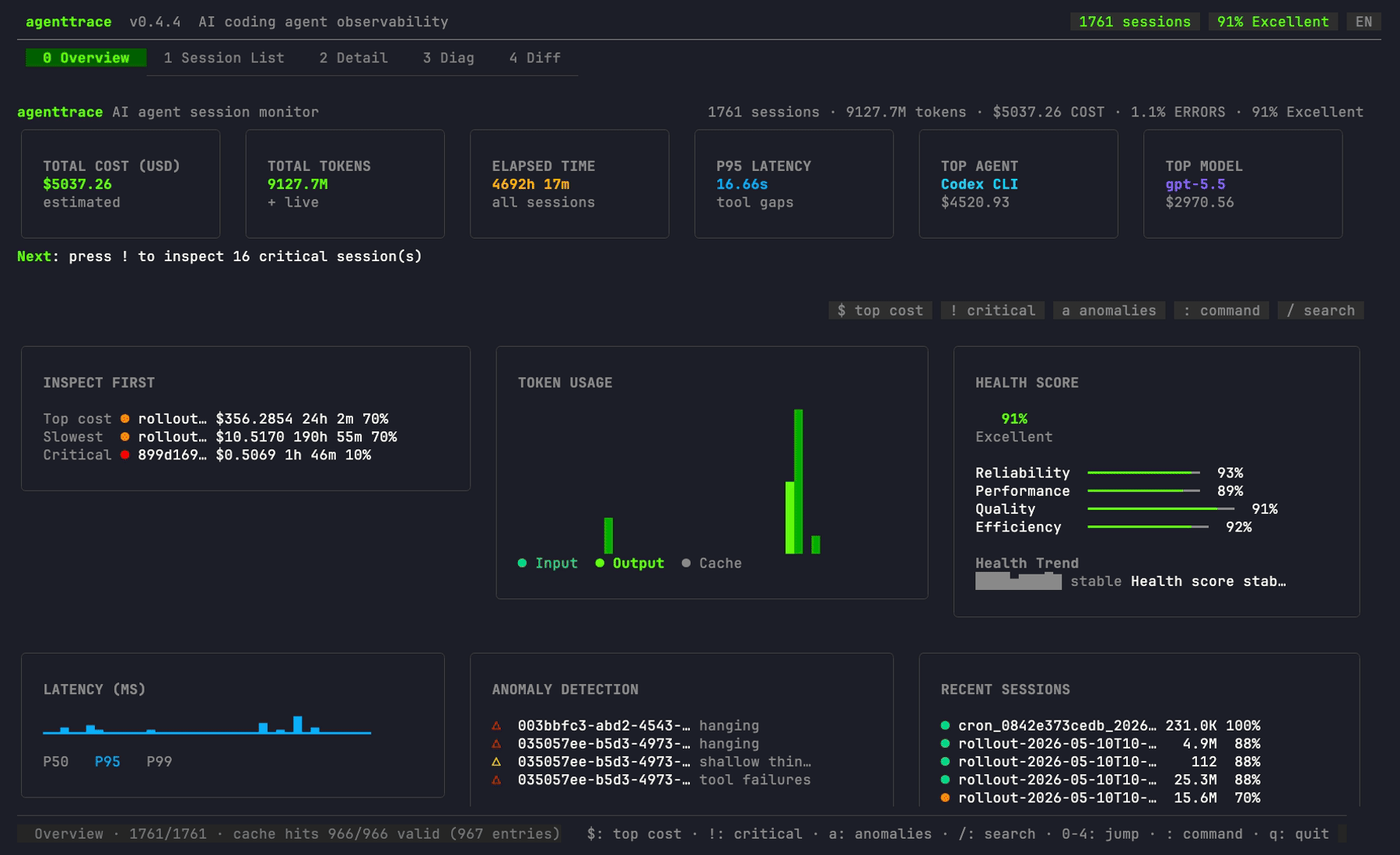
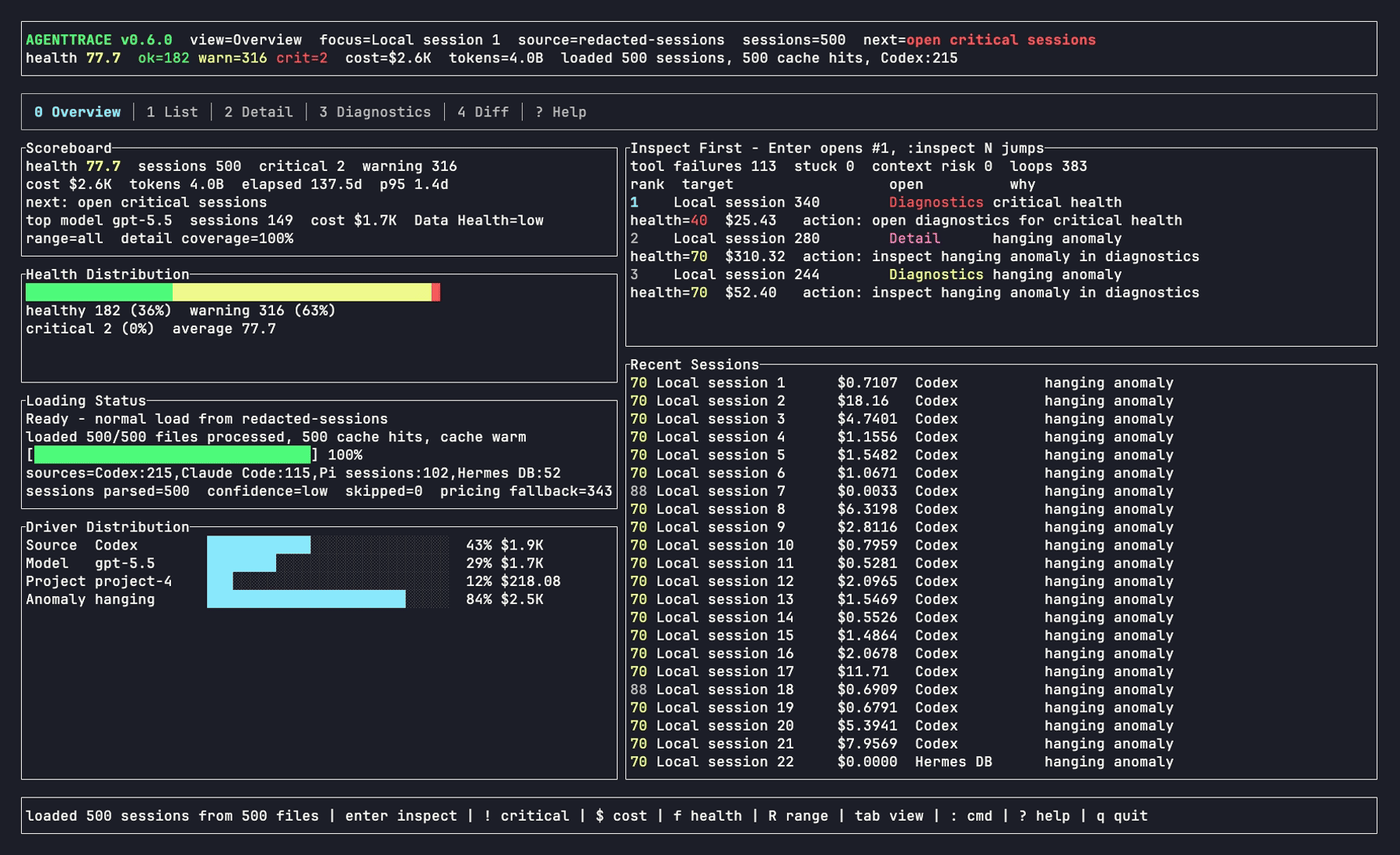
docs: refresh redacted real-session showcase

diff --git a/site/demo-report.html b/site/demo-report.html
@@ -17,137 +17,135 @@ section{border:1px solid var(--line);background:rgba(16,20,25,.78);padding:20px;
 <body>
 <main>
 <header>
-<div><div class="brand">agenttrace</div><h1>AI agent session overview</h1><p>Static sample data captured from local coding-agent traces on 2026-07-18; not current telemetry.</p></div>
-<div class="meta">v0.6.0<br>2413 Sessions<br><code>agenttrace --overview -f html</code></div>
+<div><div class="brand">agenttrace</div><h1>AI agent session overview</h1><p>Static report generated from local coding-agent traces.</p></div>
+<div class="meta">v0.6.0<br>500 Sessions<br><code>agenttrace --overview -f html</code></div>
 </header>
 <div class="grid" aria-label="summary metrics">
-<div class="metric"><span>Sessions</span><strong>2413</strong><p>1904 Healthy / 478 Warning / 31 Critical</p></div>
-<div class="metric"><span>Total tokens</span><strong>41503324713</strong><p>+ live</p></div>
-<div class="metric"><span>Average health</span><strong>91.7</strong><p>Fleet quality score</p></div>
-<div class="metric"><span>Total estimated cost</span><strong>$34091.97</strong><p>Estimated session cost</p></div>
-<div class="metric "><span>Tool failures</span><strong>656/262226</strong><p>0.3% failure rate</p></div>
+<div class="metric"><span>Sessions</span><strong>500</strong><p>182 Healthy / 316 Warning / 2 Critical</p></div>
+<div class="metric"><span>Total tokens</span><strong>4.0B</strong><p>+ live</p></div>
+<div class="metric"><span>Average health</span><strong>77.7</strong><p>Fleet quality score</p></div>
+<div class="metric"><span>Total estimated cost</span><strong>$2.6K</strong><p>Estimated session cost</p></div>
+<div class="metric "><span>Tool failures</span><strong>469/16066</strong><p>2.9% failure rate</p></div>
 </div>
 <section><h2>Tool authority</h2>
-<p><strong>Highest category</strong>: <code>unknown_authority</code></p>
+<p><strong>Highest category</strong>: <code>shell_exec</code></p>
 <table><caption>Authority category counts</caption><thead><tr><th>Authority category</th><th class="num">Count</th></tr></thead><tbody>
-<tr><td><code>external_publish</code></td><td class="num">195</td></tr>
-<tr><td><code>git_write</code></td><td class="num">3895</td></tr>
-<tr><td><code>network_access</code></td><td class="num">7039</td></tr>
-<tr><td><code>package_install</code></td><td class="num">364</td></tr>
-<tr><td><code>read_only_files</code></td><td class="num">2669</td></tr>
-<tr><td><code>shell_exec</code></td><td class="num">171772</td></tr>
-<tr><td><code>test_or_build</code></td><td class="num">7827</td></tr>
-<tr><td><code>unknown_authority</code></td><td class="num">10628</td></tr>
-<tr><td><code>write_files</code></td><td class="num">31164</td></tr>
+<tr><td><code>read_only_files</code></td><td class="num">15597</td></tr>
+<tr><td><code>shell_exec</code></td><td class="num">469</td></tr>
 </tbody></table>
-<p><strong>High-authority tools</strong>: <code>Agent</code>, <code>AskUserQuestion</code>, <code>Bash</code>, <code>Edit</code>, <code>Glob</code>, <code>SendMessage</code>, <code>Skill</code>, <code>Task</code>, <code>TaskCreate</code>, <code>TaskGet</code>, <code>TaskOutput</code>, <code>TaskUpdate</code>, <code>WebFetch</code>, <code>WebSearch</code>, <code>Workflow</code>, <code>Write</code>, <code>_add_comment_to_issue</code>, <code>_create_pull_request</code>, <code>_fetch_pr_comments</code>, <code>_get_pr_info</code>, <code>_search_repositories</code>, <code>_update_pull_request</code>, <code>apply_patch</code>, <code>automation_update</code>, <code>bash</code>, <code>batch_design</code>, <code>batch_get</code>, <code>browser_click</code>, <code>browser_close</code>, <code>browser_console_messages</code>, <code>browser_evaluate</code>, <code>browser_fill_form</code>, <code>browser_navigate</code>, <code>browser_network_requests</code>, <code>browser_press_key</code>, <code>browser_resize</code>, <code>browser_run_code_unsafe</code>, <code>browser_select_option</code>, <code>browser_snapshot</code>, <code>browser_tabs</code>, <code>browser_take_screenshot</code>, <code>chrome_click</code>, <code>chrome_execute_js</code>, <code>chrome_navigate</code>, <code>chrome_page_info</code>, <code>chrome_press_key</code>, <code>chrome_screenshot</code>, <code>chrome_scroll</code>, <code>chrome_snapshot</code>, <code>chrome_type</code>, <code>chrome_wait_for_load</code>, <code>click</code>, <code>close_agent</code>, <code>codegraph_callers</code>, <code>codegraph_explore</code>, <code>codegraph_node</code>, <code>codegraph_search</code>, <code>create_goal</code>, <code>ctx_index</code>, <code>ctx_search</code>, <code>describe_image</code>, <code>detect_service_anomalies</code>, <code>drag</code>, <code>edit</code>, <code>exec_command</code>, <code>execute_shell_command</code>, <code>export_nodes</code>, <code>fetch_content</code>, <code>firecrawl_browser_create</code>, <code>firecrawl_browser_execute</code>, <code>firecrawl_extract</code>, <code>firecrawl_scrape</code>, <code>firecrawl_search</code>, <code>get_app_state</code>, <code>get_editor_state</code>, <code>get_goal</code>, <code>get_mcp_runtime_status</code>, <code>get_mcp_tool_metadata</code>, <code>get_screenshot</code>, <code>get_search_content</code>, <code>get_variables</code>, <code>js</code>, <code>js_add_node_module_dir</code>, <code>js_repl_reset</code>, <code>lens_diagnostics</code>, <code>mcp__codex_apps__github_search_repositories</code>, <code>mcp__context7__query-docs</code>, <code>mcp__context7__query_docs</code>, <code>mcp__context7__resolve-library-id</code>, <code>mcp__context7__resolve_library_id</code>, <code>mcp__firecrawl__firecrawl_map</code>, <code>mcp__firecrawl__firecrawl_scrape</code>, <code>mcp__firecrawl__firecrawl_search</code>, <code>mcp__markitdown__convert_to_markdown</code>, <code>mcp__mcp_server__cmdb_get_service_info</code>, <code>mcp__mcp_server__detect_service_anomalies</code>, <code>mcp__mcp_server__execute_shell_command</code>, <code>mcp__mcp_server__get_mcp_tool_metadata</code>, <code>mcp__mcp_server__search_service_traces</code>, <code>mcp__my-server__detect_service_anomalies</code>, <code>mcp__my-server__execute_shell_command</code>, <code>mcp__my-server__get_mcp_tool_metadata</code>, <code>mcp__my-server__get_prometheus_metric_metadata</code>, <code>mcp__my-server__query_prometheus</code>, <code>mcp__my-server__search_service_traces</code>, <code>mcp__my_server__cmdb_get_service_info</code>, <code>mcp__my_server__execute_shell_command</code>, <code>mcp__my_server__get_mcp_tool_metadata</code>, <code>mcp__my_server__query_audit_logs</code>, <code>mcp__my_server__search_service_traces</code>, <code>mcp__my_server__tencentcloud_apm_search_spans</code>, <code>mcp__my_server__tencentcloud_edgeone_get_zone</code>, <code>mcp__orchestration__Agent</code>, <code>mcp__orchestration__TaskCreate</code>, <code>mcp__orchestration__TaskGet</code>, <code>mcp__orchestration__TaskUpdate</code>, <code>mcp__orchestration__WriteDesign</code>, <code>mcp__pencil__batch_design</code>, <code>mcp__pencil__batch_get</code>, <code>mcp__pencil__get_editor_state</code>, <code>mcp__pencil__get_guidelines</code>, <code>mcp__pencil__get_screenshot</code>, <code>mcp__pencil__get_style_guide</code>, <code>mcp__pencil__get_style_guide_tags</code>, <code>mcp__pencil__get_variables</code>, <code>mcp__pencil__open_document</code>, <code>mcp__pencil__replace_all_matching_properties</code>, <code>mcp__pencil__search_all_unique_properties</code>, <code>mcp__pencil__set_variables</code>, <code>mcp__pencil__snapshot_layout</code>, <code>mcp__pencil__spawn_agents</code>, <code>mcp__playwright__browser_console_messages</code>, <code>mcp__playwright__browser_evaluate</code>, <code>mcp__playwright__browser_install</code>, <code>mcp__playwright__browser_navigate</code>, <code>mcp__playwright__browser_network_requests</code>, <code>mcp__playwright__browser_resize</code>, <code>mcp__playwright__browser_run_code</code>, <code>mcp__playwright__browser_snapshot</code>, <code>mcp__playwright__browser_tabs</code>, <code>mcp__playwright__browser_take_screenshot</code>, <code>mcp__playwright__browser_wait_for</code>, <code>mcp__qmd__query</code>, <code>mcp__qmd__status</code>, <code>mcp__tavily-remote-mcp__tavily_search</code>, <code>mcp__tavily__tavily_extract</code>, <code>mcp__tavily__tavily_search</code>, <code>mcp__tavily__tavily_skill</code>, <code>mcp_rca_mcp_cmdb_get_service_info</code>, <code>mcp_rca_mcp_detect_service_anomalies</code>, <code>mcp_rca_mcp_execute_first_successful_shell_command</code>, <code>mcp_rca_mcp_execute_shell_command</code>, <code>mcp_rca_mcp_get_gitlab_code_by_tag</code>, <code>mcp_rca_mcp_get_gitlab_code_range</code>, <code>mcp_rca_mcp_get_gitlab_code_structure</code>, <code>mcp_rca_mcp_get_gitlab_diff</code>, <code>mcp_rca_mcp_get_mcp_runtime_status</code>, <code>mcp_rca_mcp_get_mcp_tool_metadata</code>, <code>mcp_rca_mcp_get_trace_span</code>, <code>mcp_rca_mcp_inspect_ip</code>, <code>mcp_rca_mcp_query_prometheus</code>, <code>mcp_rca_mcp_search_gitlab_code_in_project</code>, <code>mcp_rca_mcp_search_gitlab_projects</code>, <code>mcp_rca_mcp_search_service_traces</code>, <code>mcp_rca_mcp_tencentcloud_apm_search_spans</code>, <code>mcp_rca_mcp_tencentcloud_cloudaudit_diagnose_resource_changes</code>, <code>mcp_rca_mcp_tencentcloud_cvm_get_instance_detail</code>, <code>mcp_rca_mcp_tencentcloud_dnspod_resolve_record</code>, <code>mcp_rca_mcp_tencentcloud_edgeone_describe_origin_groups</code>, <code>mcp_rca_mcp_tencentcloud_edgeone_get_l7_analysis</code>, <code>mcp_rca_mcp_tencentcloud_edgeone_get_top_l7_analysis</code>, <code>mcp_rca_mcp_tencentcloud_edgeone_get_zone</code>, <code>mcp_rca_mcp_tencentcloud_edgeone_get_zone_setting</code>, <code>mcp_rca_mcp_tencentcloud_l7_diagnose_ingress</code>, <code>mcp_rca_mcp_tencentcloud_monitor_get_alarm_events</code>, <code>mcp_rca_mcp_tencentcloud_monitor_get_alarm_histories</code>, <code>mcp_rca_mcp_tencentcloud_waf_get_domain_rules</code>, <code>mcp_rca_mcp_validate_shell_command</code>, <code>memory</code>, <code>memory_search</code>, <code>open_document</code>, <code>press_key</code>, <code>query_docs</code>, <code>read_thread_terminal</code>, <code>replace_all_matching_properties</code>, <code>request_user_input</code>, <code>resolve_library_id</code>, <code>scroll</code>, <code>search_all_unique_properties</code>, <code>session_search</code>, <code>set_value</code>, <code>set_variables</code>, <code>snapshot_layout</code>, <code>spawn_agent</code>, <code>subagent</code>, <code>tavily_extract</code>, <code>tavily_research</code>, <code>tavily_search</code>, <code>team</code>, <code>tencentcloud_edgeone_describe_origin_groups</code>, <code>tencentcloud_edgeone_get_origin_protection</code>, <code>tencentcloud_edgeone_get_zone</code>, <code>tencentcloud_edgeone_get_zone_setting</code>, <code>tencentcloud_l7_diagnose_domain_path</code>, <code>tencentcloud_l7_diagnose_ingress</code>, <code>todo</code>, <code>type_text</code>, <code>unknown</code>, <code>update_goal</code>, <code>update_plan</code>, <code>wait</code>, <code>wait_agent</code>, <code>web_search</code>, <code>write</code>, <code>write_stdin</code></p>
+<p><strong>High-authority tools</strong>: <code>Shell</code></p>
 </section>
 <section><h2>Possible cost drivers</h2><table><thead><tr><th>Session</th><th>Evidence</th></tr></thead><tbody>
-<tr><td>rollout-2026-06-21T16-38-51-019ee955-253a-7ab3-b489-2eb287fc9389</td><td>possible driver: 53450 tokens per assistant turn across 483 turn(s)</td></tr>
-<tr><td>2026-06-21T08-13-01-937Z_019ee93d-7e70-7149-a586-ef67d9b40181</td><td>possible driver: 86525 tokens per assistant turn across 35 turn(s)</td></tr>
-<tr><td>2026-06-21T06-57-34-139Z_019ee8f8-67bb-7b54-bce5-0c0bb17d4f8a</td><td>possible driver: 184324 tokens per assistant turn across 120 turn(s)</td></tr>
-<tr><td>2026-06-21T06-28-39-840Z_019ee8dd-f120-7d2e-a71c-a5a6660b8d92</td><td>possible driver: 94135 tokens per assistant turn across 77 turn(s)</td></tr>
-<tr><td>20260621_142410_582e5f</td><td>possible driver: 72255 tokens per assistant turn across 11 turn(s)</td></tr>
-<tr><td>2026-06-20T20-37-35-778Z_019ee6c0-cda2-7d4b-8bca-305ef8e7eda1</td><td>possible driver: 70845 tokens per assistant turn across 12 turn(s)</td></tr>
-<tr><td>Empty conversation start</td><td>possible driver: 132036 tokens per assistant turn across 142 turn(s)</td></tr>
-<tr><td>2026-06-20T19-43-12-064Z_019ee68f-00c0-7621-812c-8c043f8cd36d</td><td>possible driver: 63785 tokens per assistant turn across 17 turn(s)</td></tr>
+<tr><td>Local session 1</td><td>possible driver: 801.4K tokens per assistant turn across 1 turn(s)</td></tr>
+<tr><td>Local session 2</td><td>possible driver: 11.1M tokens per assistant turn across 11 turn(s)</td></tr>
+<tr><td>Local session 3</td><td>possible driver: 2.5M tokens per assistant turn across 5 turn(s)</td></tr>
+<tr><td>Local session 4</td><td>possible driver: 1.5M tokens per assistant turn across 4 turn(s)</td></tr>
+<tr><td>Local session 5</td><td>possible driver: 4.7M tokens per assistant turn across 1 turn(s)</td></tr>
+<tr><td>Local session 6</td><td>possible driver: 1.2M tokens per assistant turn across 6 turn(s)</td></tr>
+<tr><td>Local session 8</td><td>possible driver: 3.0M tokens per assistant turn across 10 turn(s)</td></tr>
+<tr><td>Local session 9</td><td>possible driver: 32.1M tokens per assistant turn across 1 turn(s)</td></tr>
 </tbody></table></section>
-<section><h2>Health Trend</h2><p>Improving: 70→100</p></section>
+<section><h2>Health Trend</h2><p>Health score stable at 72</p></section>
 <section><h2>Incident timeline</h2>
 <table><thead><tr><th>Session</th><th>Signal</th><th>Evidence</th><th>Severity</th></tr></thead><tbody>
-<tr><td>rollout-2026-06-21T16-38-51-019ee955-253a-7ab3-b489-2eb287fc9389</td><td>Last milestone</td><td>483 assistant turn(s) completed over 2h 36m</td><td>LOW</td></tr>
-<tr><td>rollout-2026-06-21T16-38-51-019ee955-253a-7ab3-b489-2eb287fc9389</td><td>Longest idle gap</td><td>3083.3s gap between recorded events</td><td>HIGH</td></tr>
-<tr><td>rollout-2026-06-21T16-38-51-019ee955-253a-7ab3-b489-2eb287fc9389</td><td>Touched surface</td><td>7 unique tool(s), 299 total calls; top tool exec_command x259</td><td>LOW</td></tr>
-<tr><td>rollout-2026-06-21T16-38-51-019ee955-253a-7ab3-b489-2eb287fc9389</td><td>Burn divergence</td><td>53450 tokens per assistant turn across 483 turn(s)</td><td>MEDIUM</td></tr>
-<tr><td>2026-06-21T08-13-01-937Z_019ee93d-7e70-7149-a586-ef67d9b40181</td><td>Last milestone</td><td>35 assistant turn(s) completed over 11.5m</td><td>LOW</td></tr>
-<tr><td>2026-06-21T08-13-01-937Z_019ee93d-7e70-7149-a586-ef67d9b40181</td><td>Longest idle gap</td><td>79.7s gap between recorded events</td><td>MEDIUM</td></tr>
-<tr><td>2026-06-21T08-13-01-937Z_019ee93d-7e70-7149-a586-ef67d9b40181</td><td>Failure loop</td><td>3 failed tool result(s) out of 33 (9.1%)</td><td>MEDIUM</td></tr>
-<tr><td>2026-06-21T08-13-01-937Z_019ee93d-7e70-7149-a586-ef67d9b40181</td><td>Touched surface</td><td>8 unique tool(s), 33 total calls; top tool bash x13</td><td>LOW</td></tr>
-<tr><td>2026-06-21T08-13-01-937Z_019ee93d-7e70-7149-a586-ef67d9b40181</td><td>Burn divergence</td><td>86525 tokens per assistant turn across 35 turn(s)</td><td>MEDIUM</td></tr>
-<tr><td>2026-06-21T06-57-34-139Z_019ee8f8-67bb-7b54-bce5-0c0bb17d4f8a</td><td>Last milestone</td><td>120 assistant turn(s) completed over 1h 13m</td><td>LOW</td></tr>
-<tr><td>2026-06-21T06-57-34-139Z_019ee8f8-67bb-7b54-bce5-0c0bb17d4f8a</td><td>Longest idle gap</td><td>632.3s gap between recorded events</td><td>HIGH</td></tr>
-<tr><td>2026-06-21T06-57-34-139Z_019ee8f8-67bb-7b54-bce5-0c0bb17d4f8a</td><td>Failure loop</td><td>7 failed tool result(s) out of 140 (5.0%)</td><td>MEDIUM</td></tr>
-<tr><td>2026-06-21T06-57-34-139Z_019ee8f8-67bb-7b54-bce5-0c0bb17d4f8a</td><td>Touched surface</td><td>5 unique tool(s), 140 total calls; top tool bash x79</td><td>LOW</td></tr>
-<tr><td>2026-06-21T06-57-34-139Z_019ee8f8-67bb-7b54-bce5-0c0bb17d4f8a</td><td>Burn divergence</td><td>184324 tokens per assistant turn across 120 turn(s)</td><td>MEDIUM</td></tr>
-<tr><td>20260621_145528_cf085a</td><td>Last milestone</td><td>1 assistant turn(s) completed over 0s</td><td>LOW</td></tr>
-<tr><td>20260621_145528_cf085a</td><td>Burn divergence</td><td>45025 tokens per assistant turn across 1 turn(s)</td><td>MEDIUM</td></tr>
-<tr><td>rollout-2026-06-21T14-30-01-019ee8df-2e98-7390-a706-2e467cb412a5</td><td>Longest idle gap</td><td>494.5s gap between recorded events</td><td>HIGH</td></tr>
-<tr><td>2026-06-21T06-28-39-840Z_019ee8dd-f120-7d2e-a71c-a5a6660b8d92</td><td>Last milestone</td><td>77 assistant turn(s) completed over 26.7m</td><td>LOW</td></tr>
-<tr><td>2026-06-21T06-28-39-840Z_019ee8dd-f120-7d2e-a71c-a5a6660b8d92</td><td>Longest idle gap</td><td>899.2s gap between recorded events</td><td>HIGH</td></tr>
-<tr><td>2026-06-21T06-28-39-840Z_019ee8dd-f120-7d2e-a71c-a5a6660b8d92</td><td>Failure loop</td><td>4 failed tool result(s) out of 75 (5.3%)</td><td>MEDIUM</td></tr>
-<tr><td>2026-06-21T06-28-39-840Z_019ee8dd-f120-7d2e-a71c-a5a6660b8d92</td><td>Touched surface</td><td>3 unique tool(s), 75 total calls; top tool bash x52</td><td>LOW</td></tr>
-<tr><td>2026-06-21T06-28-39-840Z_019ee8dd-f120-7d2e-a71c-a5a6660b8d92</td><td>Burn divergence</td><td>94135 tokens per assistant turn across 77 turn(s)</td><td>MEDIUM</td></tr>
-<tr><td>20260621_142410_582e5f</td><td>Last milestone</td><td>11 assistant turn(s) completed over 2.1m</td><td>LOW</td></tr>
-<tr><td>20260621_142410_582e5f</td><td>Burn divergence</td><td>72255 tokens per assistant turn across 11 turn(s)</td><td>MEDIUM</td></tr>
-<tr><td>2026-06-21T06-20-13-025Z_019ee8d6-3561-7849-af3e-9cd9580bff5b</td><td>Longest idle gap</td><td>182.9s gap between recorded events</td><td>MEDIUM</td></tr>
+<tr><td>Local session 1</td><td>Last milestone</td><td>1 assistant turn(s) completed over 6.7m</td><td>LOW</td></tr>
+<tr><td>Local session 1</td><td>Longest idle gap</td><td>404.0s gap between recorded events</td><td>HIGH</td></tr>
+<tr><td>Local session 1</td><td>Touched surface</td><td>1 unique tool(s), 1 total calls; top tool Read x1</td><td>LOW</td></tr>
+<tr><td>Local session 1</td><td>Burn divergence</td><td>801.4K tokens per assistant turn across 1 turn(s)</td><td>MEDIUM</td></tr>
+<tr><td>Local session 2</td><td>Last milestone</td><td>11 assistant turn(s) completed over 4h 41m</td><td>LOW</td></tr>
+<tr><td>Local session 2</td><td>Longest idle gap</td><td>16916.0s gap between recorded events</td><td>HIGH</td></tr>
+<tr><td>Local session 2</td><td>Touched surface</td><td>1 unique tool(s), 11 total calls; top tool Read x11</td><td>LOW</td></tr>
+<tr><td>Local session 2</td><td>Burn divergence</td><td>11.1M tokens per assistant turn across 11 turn(s)</td><td>MEDIUM</td></tr>
+<tr><td>Local session 3</td><td>Last milestone</td><td>5 assistant turn(s) completed over 38.8m</td><td>LOW</td></tr>
+<tr><td>Local session 3</td><td>Longest idle gap</td><td>2327.0s gap between recorded events</td><td>HIGH</td></tr>
+<tr><td>Local session 3</td><td>Touched surface</td><td>1 unique tool(s), 5 total calls; top tool Read x5</td><td>LOW</td></tr>
+<tr><td>Local session 3</td><td>Burn divergence</td><td>2.5M tokens per assistant turn across 5 turn(s)</td><td>MEDIUM</td></tr>
+<tr><td>Local session 4</td><td>Last milestone</td><td>4 assistant turn(s) completed over 51.2m</td><td>LOW</td></tr>
+<tr><td>Local session 4</td><td>Longest idle gap</td><td>3073.0s gap between recorded events</td><td>HIGH</td></tr>
+<tr><td>Local session 4</td><td>Touched surface</td><td>1 unique tool(s), 4 total calls; top tool Read x4</td><td>LOW</td></tr>
+<tr><td>Local session 4</td><td>Burn divergence</td><td>1.5M tokens per assistant turn across 4 turn(s)</td><td>MEDIUM</td></tr>
+<tr><td>Local session 5</td><td>Last milestone</td><td>1 assistant turn(s) completed over 5h 15m</td><td>LOW</td></tr>
+<tr><td>Local session 5</td><td>Longest idle gap</td><td>18935.0s gap between recorded events</td><td>HIGH</td></tr>
+<tr><td>Local session 5</td><td>Burn divergence</td><td>4.7M tokens per assistant turn across 1 turn(s)</td><td>MEDIUM</td></tr>
+<tr><td>Local session 6</td><td>Last milestone</td><td>6 assistant turn(s) completed over 30.7m</td><td>LOW</td></tr>
+<tr><td>Local session 6</td><td>Longest idle gap</td><td>1840.0s gap between recorded events</td><td>HIGH</td></tr>
+<tr><td>Local session 6</td><td>Touched surface</td><td>1 unique tool(s), 6 total calls; top tool Read x6</td><td>LOW</td></tr>
+<tr><td>Local session 6</td><td>Burn divergence</td><td>1.2M tokens per assistant turn across 6 turn(s)</td><td>MEDIUM</td></tr>
+<tr><td>Local session 7</td><td>Last milestone</td><td>1 assistant turn(s) completed over 2.3m</td><td>LOW</td></tr>
+<tr><td>Local session 7</td><td>Longest idle gap</td><td>140.0s gap between recorded events</td><td>MEDIUM</td></tr>
+<tr><td>Local session 8</td><td>Last milestone</td><td>10 assistant turn(s) completed over 1h 49m</td><td>LOW</td></tr>
+<tr><td>Local session 8</td><td>Longest idle gap</td><td>6545.0s gap between recorded events</td><td>HIGH</td></tr>
+<tr><td>Local session 8</td><td>Touched surface</td><td>1 unique tool(s), 10 total calls; top tool Read x10</td><td>LOW</td></tr>
+<tr><td>Local session 8</td><td>Burn divergence</td><td>3.0M tokens per assistant turn across 10 turn(s)</td><td>MEDIUM</td></tr>
 </tbody></table>
 </section>
 <section><h2>Recent sessions</h2><table><thead><tr><th>Session</th><th>Source</th><th>Model</th><th class="num">Total tokens</th><th class="num">Cost</th><th class="num">Health</th><th class="num">Anomalies</th></tr></thead><tbody>
-<tr><td>rollout-2026-06-21T16-38-51-019ee955-253a-7ab3-b489-2eb287fc9389</td><td>Codex CLI</td><td>gpt-5.5</td><td class="num">25816725</td><td class="num">$23.1751</td><td class="num health-warn">70</td><td class="num">1</td></tr>
-<tr><td>2026-06-21T08-13-01-937Z_019ee93d-7e70-7149-a586-ef67d9b40181</td><td>Pi</td><td>gpt-5.5</td><td class="num">3028401</td><td class="num">$3.0447</td><td class="num health-good">88</td><td class="num">1</td></tr>
-<tr><td>2026-06-21T06-57-34-139Z_019ee8f8-67bb-7b54-bce5-0c0bb17d4f8a</td><td>Pi</td><td>mimo-v2.5-pro</td><td class="num">22118951</td><td class="num">$0.0000</td><td class="num health-warn">58</td><td class="num">2</td></tr>
-<tr><td>20260621_145609_80c260</td><td>Hermes Agent (DB)</td><td>gpt-5.5</td><td class="num">46794</td><td class="num">$0.0267</td><td class="num health-good">100</td><td class="num">0</td></tr>
-<tr><td>20260621_145528_cf085a</td><td>Hermes Agent (DB)</td><td>gpt-5.5</td><td class="num">45025</td><td class="num">$0.2256</td><td class="num health-good">100</td><td class="num">0</td></tr>
-<tr><td>20260621_145359_fb98fb</td><td>Hermes Agent (DB)</td><td>gpt-5.5</td><td class="num">0</td><td class="num">$0.0000</td><td class="num health-good">100</td><td class="num">0</td></tr>
-<tr><td>20260621_143458_a67a1e</td><td>Hermes Agent (DB)</td><td>gpt-5.5</td><td class="num">0</td><td class="num">$0.0000</td><td class="num health-good">100</td><td class="num">0</td></tr>
-<tr><td>rollout-2026-06-21T14-30-01-019ee8df-2e98-7390-a706-2e467cb412a5</td><td>Codex CLI</td><td>codex-auto-review</td><td class="num">209552</td><td class="num">$0.6287</td><td class="num health-warn">70</td><td class="num">1</td></tr>
-<tr><td>2026-06-21T06-28-39-840Z_019ee8dd-f120-7d2e-a71c-a5a6660b8d92</td><td>Pi</td><td>mimo-v2.5-pro</td><td class="num">7248398</td><td class="num">$0.0000</td><td class="num health-bad">40</td><td class="num">2</td></tr>
-<tr><td>2026-06-21T06-27-12-400Z_019ee8dc-9b90-76af-a903-1498771a0b3e</td><td>Pi</td><td>default</td><td class="num">19</td><td class="num">$0.0001</td><td class="num health-good">100</td><td class="num">0</td></tr>
-<tr><td>20260621_142410_582e5f</td><td>Hermes Agent (DB)</td><td>mimo-v2.5-pro-ultraspeed</td><td class="num">794807</td><td class="num">$0.9224</td><td class="num health-good">100</td><td class="num">0</td></tr>
-<tr><td>2026-06-21T06-20-13-025Z_019ee8d6-3561-7849-af3e-9cd9580bff5b</td><td>Pi</td><td>mimo-v2.5-pro</td><td class="num">170</td><td class="num">$0.0000</td><td class="num health-good">88</td><td class="num">1</td></tr>
-<tr><td>rollout-2026-06-21T14-16-13-019ee8d2-8cfd-7d81-bd89-42c2677eca6e</td><td>Codex CLI</td><td>gpt-5.5</td><td class="num">6835164</td><td class="num">$5.7680</td><td class="num health-warn">70</td><td class="num">1</td></tr>
-<tr><td>rollout-2026-06-21T14-12-57-019ee8cf-906b-7763-ab0d-3eb518427617</td><td>Codex CLI</td><td>gpt-5.5</td><td class="num">1068</td><td class="num">$0.0053</td><td class="num health-good">88</td><td class="num">1</td></tr>
-<tr><td>2026-06-20T20-37-35-778Z_019ee6c0-cda2-7d4b-8bca-305ef8e7eda1</td><td>Pi</td><td>mimo-v2.5-pro</td><td class="num">850146</td><td class="num">$0.0000</td><td class="num health-warn">58</td><td class="num">2</td></tr>
-<tr><td>rollout-2026-06-21T04-23-24-019ee6b3-d174-7190-9480-8826a250c86d</td><td>Codex CLI</td><td>gpt-5.5</td><td class="num">12148379</td><td class="num">$11.9185</td><td class="num health-good">88</td><td class="num">1</td></tr>
-<tr><td>look_at: 分析 TenRouter 开发者视图的 UI/UX 视觉质量: 布局节奏、卡片层级、色彩使用、留白、</td><td>OpenCode (DB)</td><td>gpt-5.4</td><td class="num">0</td><td class="num">$0.0000</td><td class="num health-good">100</td><td class="num">0</td></tr>
-<tr><td>look_at: 分析这个登录页面的UI/UX/视觉设计质量,包括布局、留白、对齐、色彩、字体层级、按钮样式、视觉重点</td><td>OpenCode (DB)</td><td>gpt-5.4</td><td class="num">0</td><td class="num">$0.0000</td><td class="num health-good">100</td><td class="num">0</td></tr>
-<tr><td>Empty conversation start</td><td>OpenCode (DB)</td><td>glm-5.2</td><td class="num">18749166</td><td class="num">$23.4525</td><td class="num health-good">100</td><td class="num">0</td></tr>
-<tr><td>New session - 2026-06-20T19:48:54.816Z</td><td>OpenCode (DB)</td><td>glm-5.2</td><td class="num">0</td><td class="num">$0.0000</td><td class="num health-good">100</td><td class="num">0</td></tr>
+<tr><td>Local session 1</td><td>Codex CLI</td><td>gpt-5.6-sol</td><td class="num">801.4K</td><td class="num">$0.7107</td><td class="num health-warn">70</td><td class="num">1</td></tr>
+<tr><td>Local session 2</td><td>Codex CLI</td><td>gpt-5.6-sol</td><td class="num">121.8M</td><td class="num">$18.16</td><td class="num health-warn">70</td><td class="num">1</td></tr>
+<tr><td>Local session 3</td><td>Codex CLI</td><td>gpt-5.6-luna</td><td class="num">12.3M</td><td class="num">$4.7401</td><td class="num health-warn">70</td><td class="num">1</td></tr>
+<tr><td>Local session 4</td><td>Codex CLI</td><td>gpt-5.6-luna</td><td class="num">6.1M</td><td class="num">$1.1556</td><td class="num health-warn">70</td><td class="num">1</td></tr>
+<tr><td>Local session 5</td><td>Codex CLI</td><td>gpt-5.6-luna</td><td class="num">4.7M</td><td class="num">$1.5482</td><td class="num health-warn">70</td><td class="num">1</td></tr>
+<tr><td>Local session 6</td><td>Codex CLI</td><td>gpt-5.6-luna</td><td class="num">7.5M</td><td class="num">$1.0671</td><td class="num health-warn">70</td><td class="num">1</td></tr>
+<tr><td>Local session 7</td><td>Codex CLI</td><td>gpt-5.6-luna</td><td class="num">1.1K</td><td class="num">$0.0033</td><td class="num health-good">88</td><td class="num">1</td></tr>
+<tr><td>Local session 8</td><td>Codex CLI</td><td>gpt-5.6-luna</td><td class="num">30.5M</td><td class="num">$6.3198</td><td class="num health-warn">70</td><td class="num">1</td></tr>
+<tr><td>Local session 9</td><td>Codex CLI</td><td>gpt-5.6-luna</td><td class="num">32.1M</td><td class="num">$2.8116</td><td class="num health-warn">70</td><td class="num">1</td></tr>
+<tr><td>Local session 10</td><td>Codex CLI</td><td>gpt-5.6-luna</td><td class="num">2.5M</td><td class="num">$0.7959</td><td class="num health-warn">70</td><td class="num">1</td></tr>
+<tr><td>Local session 11</td><td>Codex CLI</td><td>gpt-5.6-luna</td><td class="num">1.1M</td><td class="num">$0.5281</td><td class="num health-warn">70</td><td class="num">1</td></tr>
+<tr><td>Local session 12</td><td>Codex CLI</td><td>gpt-5.6-luna</td><td class="num">6.0M</td><td class="num">$2.0965</td><td class="num health-warn">70</td><td class="num">1</td></tr>
+<tr><td>Local session 13</td><td>Codex CLI</td><td>gpt-5.6-luna</td><td class="num">4.8M</td><td class="num">$1.5469</td><td class="num health-warn">70</td><td class="num">1</td></tr>
+<tr><td>Local session 14</td><td>Codex CLI</td><td>gpt-5.6-luna</td><td class="num">747.8K</td><td class="num">$0.5526</td><td class="num health-warn">70</td><td class="num">1</td></tr>
+<tr><td>Local session 15</td><td>Codex CLI</td><td>gpt-5.6-luna</td><td class="num">4.7M</td><td class="num">$1.4864</td><td class="num health-warn">70</td><td class="num">1</td></tr>
+<tr><td>Local session 16</td><td>Codex CLI</td><td>gpt-5.6-luna</td><td class="num">7.9M</td><td class="num">$2.0678</td><td class="num health-warn">70</td><td class="num">1</td></tr>
+<tr><td>Local session 17</td><td>Codex CLI</td><td>gpt-5.6-luna</td><td class="num">51.3M</td><td class="num">$11.71</td><td class="num health-warn">70</td><td class="num">1</td></tr>
+<tr><td>Local session 18</td><td>Codex CLI</td><td>gpt-5.6-luna</td><td class="num">2.0M</td><td class="num">$0.6909</td><td class="num health-good">88</td><td class="num">1</td></tr>
+<tr><td>Local session 19</td><td>Codex CLI</td><td>gpt-5.6-luna</td><td class="num">1.4M</td><td class="num">$0.6791</td><td class="num health-warn">70</td><td class="num">1</td></tr>
+<tr><td>Local session 20</td><td>Codex CLI</td><td>gpt-5.6-luna</td><td class="num">24.5M</td><td class="num">$5.3941</td><td class="num health-warn">70</td><td class="num">1</td></tr>
 </tbody></table></section>
 <section><h2>By agent</h2><table><thead><tr><th>Agent</th><th class="num">Sessions</th><th class="num">Cost</th></tr></thead><tbody>
-<tr><td>Hermes Agent (DB)</td><td class="num">1034</td><td class="num">$209.92</td></tr>
-<tr><td>Codex CLI</td><td class="num">907</td><td class="num">$33284.95</td></tr>
-<tr><td>OpenCode (DB)</td><td class="num">199</td><td class="num">$106.50</td></tr>
-<tr><td>Claude Code</td><td class="num">151</td><td class="num">$345.12</td></tr>
-<tr><td>Pi</td><td class="num">83</td><td class="num">$145.48</td></tr>
-<tr><td>Generic JSON/JSONL</td><td class="num">39</td><td class="num">$0.00</td></tr>
+<tr><td>Codex CLI</td><td class="num">215</td><td class="num">$1.9K</td></tr>
+<tr><td>Claude Code</td><td class="num">115</td><td class="num">$319.56</td></tr>
+<tr><td>Pi</td><td class="num">102</td><td class="num">$246.88</td></tr>
+<tr><td>Hermes Agent (DB)</td><td class="num">52</td><td class="num">$23.62</td></tr>
+<tr><td>workbuddy</td><td class="num">8</td><td class="num">$0.5499</td></tr>
+<tr><td>OpenCode (DB)</td><td class="num">5</td><td class="num">$26.50</td></tr>
+<tr><td>Generic JSON/JSONL</td><td class="num">3</td><td class="num">$0.0000</td></tr>
 </tbody></table></section>
 <section><h2>By model</h2><table><thead><tr><th>Model</th><th class="num">Sessions</th><th class="num">Cost</th></tr></thead><tbody>
-<tr><td>gpt-5.5</td><td class="num">381</td><td class="num">$31746.98</td></tr>
-<tr><td>gpt-5.4</td><td class="num">396</td><td class="num">$1368.61</td></tr>
-<tr><td>glm-5.2</td><td class="num">53</td><td class="num">$311.05</td></tr>
-<tr><td>gpt-5.3-codex</td><td class="num">84</td><td class="num">$149.46</td></tr>
-<tr><td>mimo-v2.5-pro-ultraspeed</td><td class="num">83</td><td class="num">$149.28</td></tr>
-<tr><td>qwen3.7-max</td><td class="num">66</td><td class="num">$122.10</td></tr>
-<tr><td>deepseek-v4-pro</td><td class="num">361</td><td class="num">$43.44</td></tr>
-<tr><td>qwen3.6-plus</td><td class="num">46</td><td class="num">$33.51</td></tr>
-<tr><td>glm-5</td><td class="num">18</td><td class="num">$29.34</td></tr>
-<tr><td>glm-5-turbo</td><td class="num">17</td><td class="num">$25.24</td></tr>
-<tr><td>minimax-2.7</td><td class="num">126</td><td class="num">$21.83</td></tr>
-<tr><td>minimax-2.7-highspeed</td><td class="num">206</td><td class="num">$16.72</td></tr>
+<tr><td>gpt-5.5</td><td class="num">149</td><td class="num">$1.7K</td></tr>
+<tr><td>glm-5.2</td><td class="num">83</td><td class="num">$359.35</td></tr>
+<tr><td>gpt-5.6-luna</td><td class="num">43</td><td class="num">$197.86</td></tr>
+<tr><td>mimo-v2.5-pro-ultraspeed</td><td class="num">89</td><td class="num">$150.86</td></tr>
+<tr><td>gpt-5.6-sol</td><td class="num">16</td><td class="num">$60.43</td></tr>
+<tr><td>claude-opus-4-8</td><td class="num">2</td><td class="num">$47.10</td></tr>
+<tr><td>gpt-5.4</td><td class="num">5</td><td class="num">$14.64</td></tr>
+<tr><td>kimi-k2.7-code</td><td class="num">12</td><td class="num">$12.56</td></tr>
+<tr><td>claude-sonnet-5</td><td class="num">18</td><td class="num">$11.28</td></tr>
+<tr><td>kimi-k2.7-code-highspeed</td><td class="num">9</td><td class="num">$7.4208</td></tr>
+<tr><td>gpt-5.6-terra</td><td class="num">3</td><td class="num">$3.9158</td></tr>
+<tr><td>deepseek-v4-pro</td><td class="num">8</td><td class="num">$0.9617</td></tr>
 </tbody></table></section>
 <section><h2>Recent anomalies</h2>
 <table><thead><tr><th>Session</th><th>Type</th><th>Age</th></tr></thead><tbody>
-<tr><td>0344fdeb-3688-4641-966b-620da7e352d2</td><td>shallow thinking</td><td>now</td></tr>
-<tr><td>0d111e3a-97d6-46b5-a5d9-3434e469cdec</td><td>shallow thinking</td><td>now</td></tr>
-<tr><td>10087e4c-6b8b-418b-b8e7-b205856733a2</td><td>hanging</td><td>now</td></tr>
-<tr><td>1b8de706-564c-4eea-8070-9c5700bb1ea0</td><td>hanging</td><td>now</td></tr>
-<tr><td>1bf1586e-a630-4261-827c-bddf9dec1f18</td><td>tool failures</td><td>now</td></tr>
-<tr><td>2026-05-10T04-42-51-493Z_019e1031-fae4-758e-ad42-b29fd44a2fc7</td><td>shallow thinking</td><td>now</td></tr>
-<tr><td>2026-06-05T10-10-44-544Z_019e9743-82c0-71ef-b6cd-dee136e51707</td><td>shallow thinking</td><td>now</td></tr>
-<tr><td>2026-06-05T10-12-24-371Z_019e9745-08b3-74ba-b5ec-109af511f516</td><td>shallow thinking</td><td>now</td></tr>
-<tr><td>2026-06-05T10-17-40-791Z_019e9749-dcb7-7072-85ad-078bb94d747e</td><td>hanging</td><td>now</td></tr>
-<tr><td>2026-06-06T22-08-03-072Z_019e9efa-9600-70a2-ab1e-2d97ddcd3dc0</td><td>hanging</td><td>now</td></tr>
-<tr><td>2026-06-06T22-13-13-953Z_019e9eff-5461-7e76-85e1-036a6d1406c6</td><td>shallow thinking</td><td>now</td></tr>
-<tr><td>2026-06-06T22-37-47-425Z_019e9f15-d021-7973-8763-6c9b5bda5929</td><td>hanging</td><td>now</td></tr>
-<tr><td>2026-06-06T22-37-47-425Z_019e9f15-d021-7973-8763-6c9b5bda5929</td><td>shallow thinking</td><td>now</td></tr>
-<tr><td>2026-06-06T22-59-43-250Z_019e9f29-e412-7214-b033-4811e6ebda55</td><td>hanging</td><td>now</td></tr>
-<tr><td>2026-06-06T22-59-43-250Z_019e9f29-e412-7214-b033-4811e6ebda55</td><td>shallow thinking</td><td>now</td></tr>
-<tr><td>2026-06-06T23-35-13-865Z_019e9f4a-66c9-7448-b00f-416f580673ad</td><td>hanging</td><td>now</td></tr>
-<tr><td>2026-06-07T07-58-40-050Z_019ea117-4fb2-7035-9406-f9beb7983039</td><td>hanging</td><td>now</td></tr>
-<tr><td>2026-06-07T19-23-58-316Z_019ea38a-b9ec-788c-8620-527beeaa0220</td><td>hanging</td><td>now</td></tr>
-<tr><td>2026-06-07T19-23-58-316Z_019ea38a-b9ec-788c-8620-527beeaa0220</td><td>shallow thinking</td><td>now</td></tr>
-<tr><td>2026-06-07T19-48-59-019Z_019ea3a1-a00a-7def-8cf8-5952480976fd</td><td>hanging</td><td>now</td></tr>
+<tr><td>Local session 1</td><td>hanging</td><td>now</td></tr>
+<tr><td>Local session 10</td><td>hanging</td><td>now</td></tr>
+<tr><td>Local session 100</td><td>hanging</td><td>now</td></tr>
+<tr><td>Local session 101</td><td>hanging</td><td>now</td></tr>
+<tr><td>Local session 102</td><td>hanging</td><td>now</td></tr>
+<tr><td>Local session 104</td><td>hanging</td><td>now</td></tr>
+<tr><td>Local session 105</td><td>hanging</td><td>now</td></tr>
+<tr><td>Local session 106</td><td>hanging</td><td>now</td></tr>
+<tr><td>Local session 11</td><td>hanging</td><td>now</td></tr>
+<tr><td>Local session 110</td><td>hanging</td><td>now</td></tr>
+<tr><td>Local session 111</td><td>hanging</td><td>now</td></tr>
+<tr><td>Local session 114</td><td>hanging</td><td>now</td></tr>
+<tr><td>Local session 117</td><td>hanging</td><td>now</td></tr>
+<tr><td>Local session 118</td><td>hanging</td><td>now</td></tr>
+<tr><td>Local session 119</td><td>hanging</td><td>now</td></tr>
+<tr><td>Local session 12</td><td>hanging</td><td>now</td></tr>
+<tr><td>Local session 122</td><td>hanging</td><td>now</td></tr>
+<tr><td>Local session 123</td><td>hanging</td><td>now</td></tr>
+<tr><td>Local session 125</td><td>hanging</td><td>now</td></tr>
+<tr><td>Local session 127</td><td>hanging</td><td>now</td></tr>
 </tbody></table>
 </section>
 </main>

diff --git a/README.md b/README.md
@@ -47,7 +47,7 @@ It helps you answer:
 
 ## Real local run
 
-These screenshots and figures are a dated, redacted local sample captured for the v0.6.0 source tree. They are not `--demo` output, current telemetry, or test fixtures.
+These screenshots and figures are a redacted sample of the latest 500 real local sessions captured for the v0.6.0 source tree. They are not `--demo` output, current telemetry, or test fixtures.
 
 ```bash
 agenttrace
@@ -69,12 +69,12 @@ AGENTTRACE v0.6.0
 
 | Signal | What agenttrace found |
 |---|---:|
-| Analyzed sessions | 1,761 |
-| Total tokens | 9.13B |
-| Estimated cost | $5,037.26 |
-| Tool failure rate | 1.1% |
-| Critical sessions | 16 |
-| Average health | 91% |
+| Analyzed sessions | 500 |
+| Total tokens | 4.0B |
+| Estimated cost | $2.6K |
+| Tool failure rate | 2.9% |
+| Critical sessions | 2 |
+| Average health | 77.7% |
 
 ## Install
 
@@ -100,51 +100,11 @@ Windows:
 iwr -useb https://raw.githubusercontent.com/luoyuctl/agenttrace/master/install.ps1 | iex
 ```
 
-## Common workflows
+## Quickstart
 
 ```bash
-# Open the local TUI
 agenttrace
-
-# Check detected agent directories and cache state
-agenttrace --doctor
-
-# Generate machine-readable evidence
-agenttrace --overview -f json
-
-# Focus the same TUI/report scope by time, project, agent, or model
-agenttrace --overview -f json --range 7d --project agenttrace
-agenttrace --overview -f json --source codex --model-filter gpt-5
-
-# Opt in to long-term derived history; prompts, replies, paths, and tool arguments are not stored
-agenttrace --overview -f json --preserve-history
-agenttrace --overview -f json --include-history --range 30d
-
-# Search local session metadata without indexing prompt text
-agenttrace --search billing
-agenttrace --search internal/ws -f json
-
-# Create a self-contained report for CI artifacts or issue links
-agenttrace --overview -f html -o agenttrace-overview.html
-
-# Save a local baseline, then compare a later run
-agenttrace --overview -f json -o agenttrace-baseline.json
-agenttrace --overview -f json \
-  --baseline agenttrace-baseline.json \
-  -o agenttrace-overview.json
-
-# Fail CI on unhealthy agent runs
-agenttrace --overview \
-  --fail-under-health 80 \
-  --fail-on-critical \
-  --max-tool-fail-rate 15
 ```
-
-## Supported logs
-
-agenttrace supports local sessions from:
-
-Claude Code, Codex CLI, Gemini CLI, Qwen Code, Cline, Aider, Cursor exports, Hermes Agent, OpenCode, OpenClaw, Pi, Oh My Pi, Kimi CLI, Copilot-style logs, and generic JSON/JSONL traces.
 
 ## What you get
 
